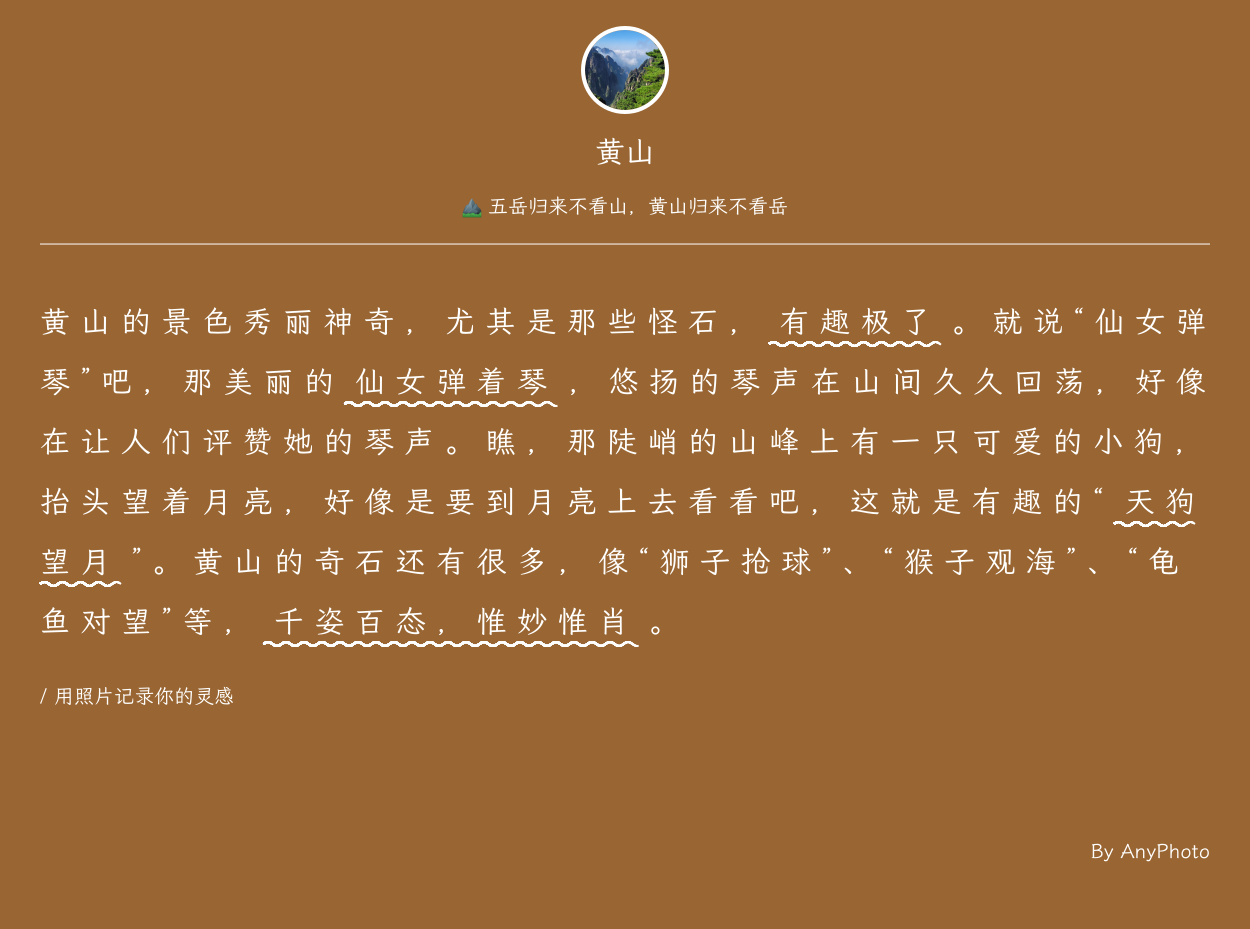
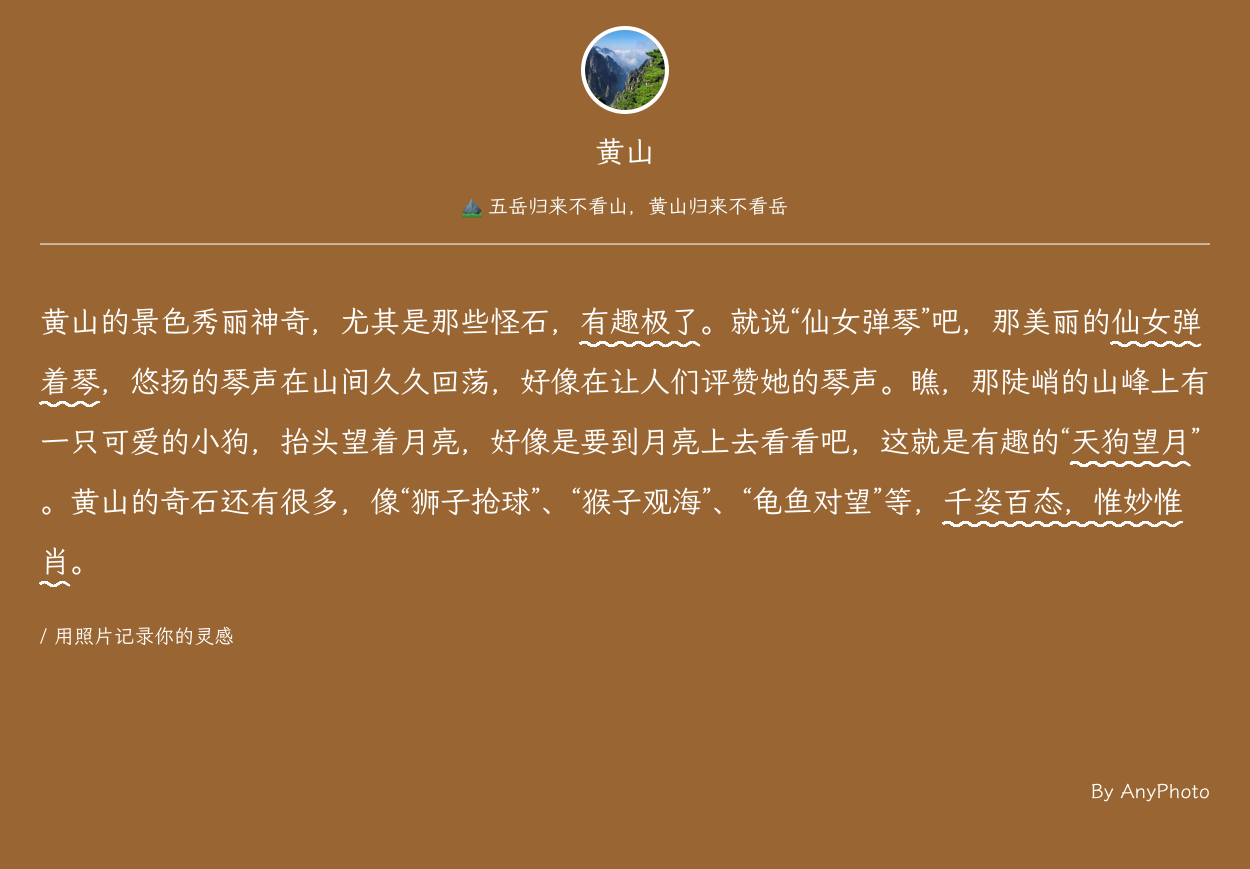
fix(draw.js): use the correct hyphen to connect words

diff --git a/src/draw.js b/src/draw.js
@@ -41,6 +41,7 @@ class Drawer {
     this.width = width
     this.fontWeight = fontWeight
     this.fontFamilys = fontFamilys
+    this.letterSpaceSeparator = '' // It may be useful in the future to control the spacing of content
     this.color = color
     this.backgroundColor = backgroundColor
     this.maxLineWidth = width - x * 2 // Here we just preset the maximum width, that is, use width - x * 2. You need it first to calculate the layout and the actual width of each line drawn.
@@ -294,7 +295,7 @@ class Drawer {
     let currentLine = 0
     let idx = 1
     while (words.length > 0 && idx <= words.length) {
-      const str = words.slice(0, idx).join(' ').replace(/[{}]/g, '')
+      const str = words.slice(0, idx).join(separator).replace(/[{}]/g, '')
       const w = ctx.measureText(str).width
       if (w > maxLineWidth) {
         if (idx === 1) {
@@ -303,7 +304,7 @@ class Drawer {
         ctx.fillText(
           words
             .slice(0, idx - 1)
-            .join(' ')
+            .join(separator)
             .replace(/[{}]/g, ''),
           x,
           headerHeight + y + (fontSize + lineGap) * currentLine
@@ -316,7 +317,7 @@ class Drawer {
       }
     }
     if (idx > 0) {
-      ctx.fillText(words.join(' ').replace(/[{}]/g, ''), x, headerHeight + y + (fontSize + lineGap) * currentLine)
+      ctx.fillText(words.join(separator).replace(/[{}]/g, ''), x, headerHeight + y + (fontSize + lineGap) * currentLine)
     }
     return this
   }
@@ -541,14 +542,14 @@ class Drawer {
     let currentLine = 0
     let idx = 1
     while (words.length > 0 && idx <= words.length) {
-      const str = words.slice(0, idx).join(' ').replace(/[{}]/g, '')
+      const str = words.slice(0, idx).join(separator).replace(/[{}]/g, '')
       const w = ctx.measureText(str).width
       if (w > maxLineWidth) {
         if (idx === 1) {
           idx = 2
         }
-        this.setLineWidthMap(currentLine, ctx.measureText(words.slice(0, idx - 1).join(' ')).width)
-        this.setLineKeywordIdentifier(currentLine, words.slice(0, idx - 1).join(' '))
+        this.setLineWidthMap(currentLine, ctx.measureText(words.slice(0, idx - 1).join(separator)).width)
+        this.setLineKeywordIdentifier(currentLine, words.slice(0, idx - 1).join(separator))
         currentLine++
         words = words.splice(idx - 1)
         idx = 1
@@ -556,8 +557,8 @@ class Drawer {
         idx++
       }
     }
-    this.setLineWidthMap(currentLine, ctx.measureText(words.join(' ')).width)
-    this.setLineKeywordIdentifier(currentLine, words.join(' '))
+    this.setLineWidthMap(currentLine, ctx.measureText(words.join(separator)).width)
+    this.setLineKeywordIdentifier(currentLine, words.join(separator))
     return currentLine + 1
   }
 
